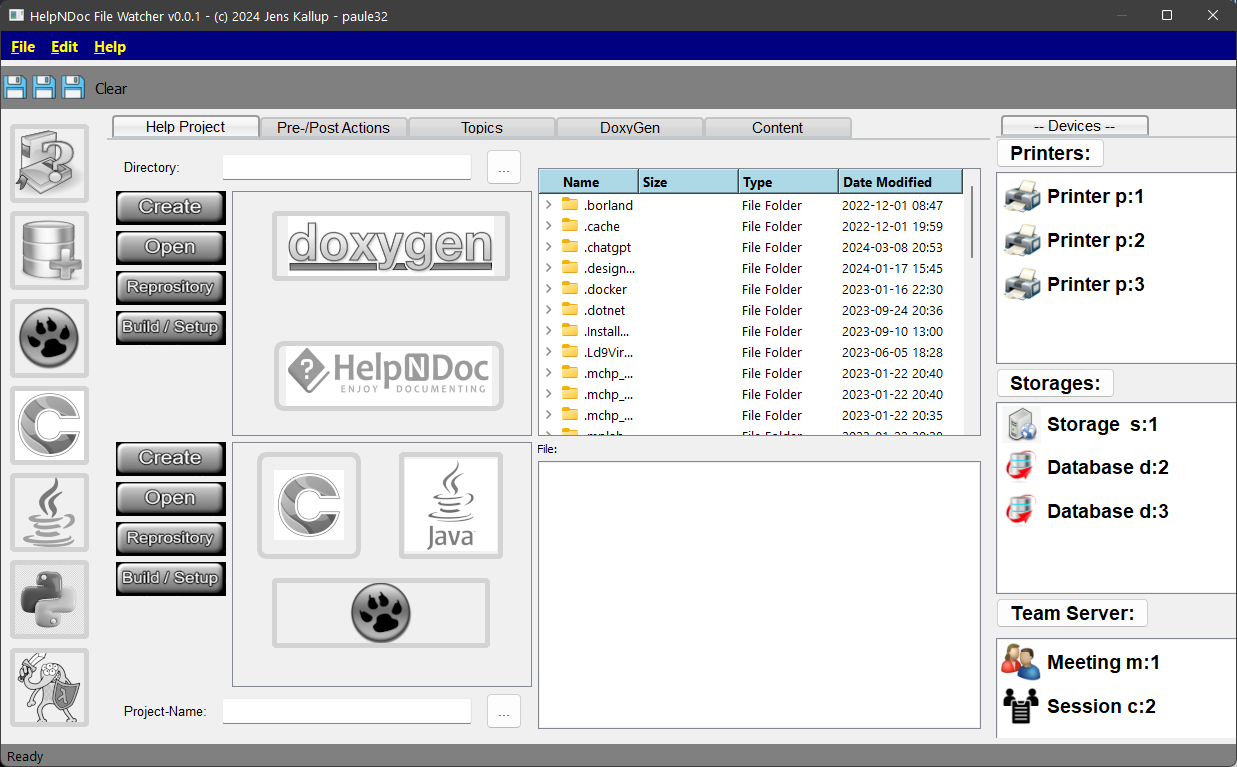
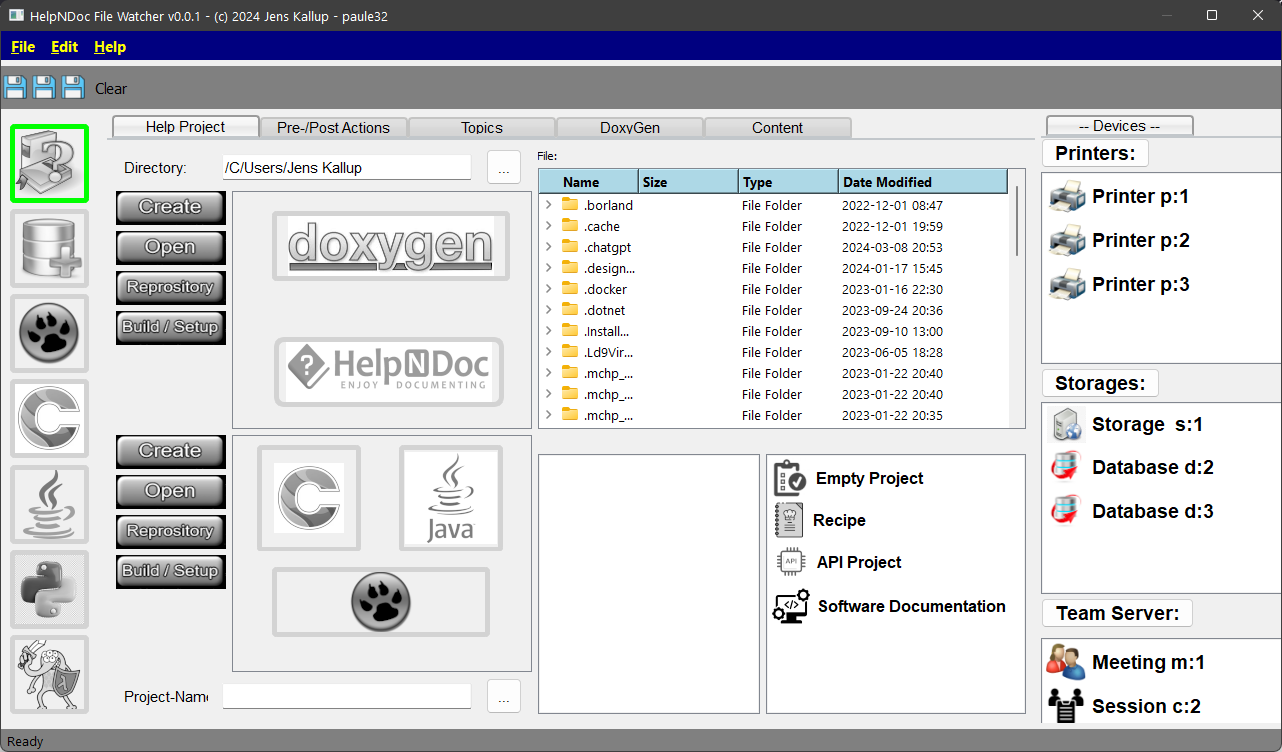
update

Changed region(s): [[0.0, 0.0, 1.0, 0.9787], [0.2765, 0.7646, 0.3379, 0.8564], [0.0, 0.9787, 0.0307, 1.0]]

diff --git a/README.md b/README.md
@@ -8,6 +8,9 @@ Here are some out dated screen shoot on running the application:
 Preview Front-Window A2:
 ![Preview](src/img/screen010.png)
 
+Preview Design-Window A3:
+![Preview](src/img/screen011.png)
+
 Preview Front-Window 1:
 ![Preview](src/img/screen00A.png)
 
